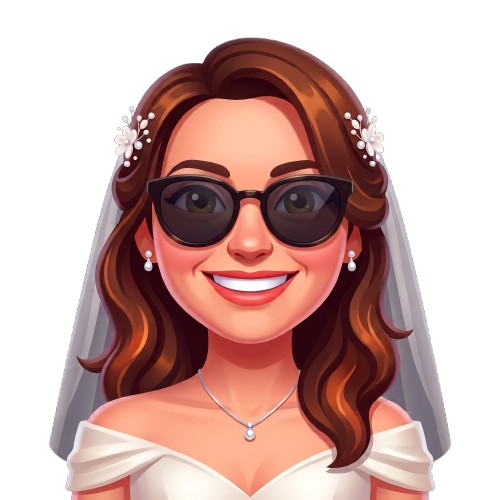
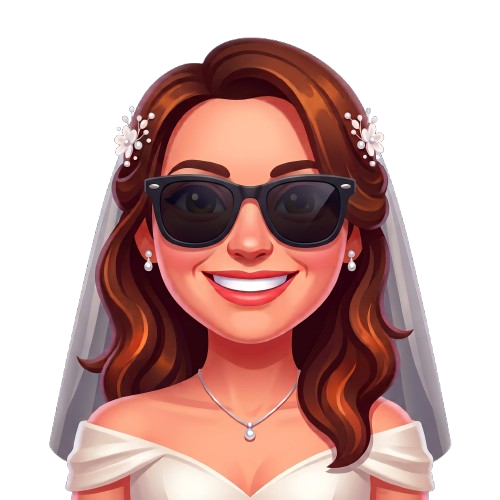
Actualizar emoji_chica_lentes e implementar Easter egg del Marciano y Líder Maddie en Dino

Changed region(s): [[0.27, 0.33, 0.72, 0.51]]

diff --git a/js/juegos.js b/js/juegos.js
@@ -123,6 +123,10 @@ document.addEventListener("DOMContentLoaded", () => {
         const imgMaddieUfo = new Image();
         imgMaddieUfo.src = assetPrefix + 'ImagenesWeb/maddie_nave_espacial.png';
 
+        // SPRITE EASTER EGG: MARCIANO INVASOR
+        const imgMarciano = new Image();
+        imgMarciano.src = assetPrefix + 'ImagenesWeb/marciano.png';
+
         // SPRITE DE MADDIE EN SU JUEGO (WHACK-A-MADDIE)
         const imgMaddieGame = new Image();
         imgMaddieGame.src = assetPrefix + 'ImagenesWeb/maddie_juego.png';
@@ -1606,6 +1610,10 @@ document.addEventListener("DOMContentLoaded", () => {
         }
 
         let maddieUfo = null;
+        let marcianoObj = null;
+        let leaderWarningTimer = 0;
+        let marcianoSpawnedThisRun = false;
+        let maddieTouchedThisRun = false;
 
         function initChicoGame() {
             memo = {
@@ -1622,6 +1630,10 @@ document.addEventListener("DOMContentLoaded", () => {
             items = [];
             bgCacti = [];
             maddieUfo = null;
+            marcianoObj = null;
+            leaderWarningTimer = 0;
+            marcianoSpawnedThisRun = false;
+            maddieTouchedThisRun = false;
             clouds = [
                 {x: 120, y: 60, speed: 0.6},
                 {x: 320, y: 90, speed: 0.4}
@@ -1647,7 +1659,89 @@ document.addEventListener("DOMContentLoaded", () => {
                 }
             };
 
+            const checkSkyEasterEggTap = (clientX, clientY) => {
+                const rect = canvas.getBoundingClientRect();
+                const clickX = (clientX - rect.left) * (canvas.width / rect.width);
+                const clickY = (clientY - rect.top) * (canvas.height / rect.height);
+
+                // 1. Tocar al Marciano
+                if (marcianoObj && marcianoObj.active && !marcianoObj.intercepted) {
+                    const mw = marcianoObj.w || 64;
+                    const mh = marcianoObj.h || 38;
+                    const mx = marcianoObj.x;
+                    const my = marcianoObj.y;
+                    if (clickX >= mx - mw / 2 - 15 && clickX <= mx + mw / 2 + 15 &&
+                        clickY >= my - mh / 2 - 15 && clickY <= my + mh / 2 + 15) {
+                        marcianoObj.intercepted = true;
+                        playSound('coin');
+                        triggerHaptic([40, 30, 80]);
+                        scorePopups.push({
+                            x: mx,
+                            y: my - 10,
+                            text: isEnLang ? "MARTIAN INTERCEPTED!" : "¡MARCIANO INTERCEPTADO!",
+                            color: "#facc15",
+                            life: 45
+                        });
+
+                        // Mensaje central: "¡SU LÍDER VIENE POR TI!"
+                        leaderWarningTimer = 90; // ~3 segundos a 30 fps
+
+                        // 3 segundos después aparece Maddie en su platillo volador
+                        setTimeout(() => {
+                            if (gameRunning && activeGame === 'chico') {
+                                maddieUfo = {
+                                    startTime: Date.now(),
+                                    duration: 5000, // 5.0 segundos exactos (duración de spaceEngine_003)
+                                    startX: canvas.width + 50,
+                                    endX: -70,
+                                    y: 44,
+                                    w: 58,
+                                    h: 48,
+                                    active: true
+                                };
+                                try {
+                                    sfxSpaceEngine.currentTime = 0;
+                                    sfxSpaceEngine.play().catch(e => console.log('Space engine audio err:', e));
+                                } catch (e) {}
+                                playSound('bark');
+                            }
+                        }, 3000);
+
+                        return true;
+                    }
+                }
+
+                // 2. Tocar a Maddie en su platillo volador
+                if (maddieUfo && maddieUfo.active && !maddieTouchedThisRun) {
+                    const uw = maddieUfo.w || 58;
+                    const uh = maddieUfo.h || 48;
+                    const ux = maddieUfo.x || 0;
+                    const uy = maddieUfo.y || 44;
+                    if (clickX >= ux - uw / 2 - 15 && clickX <= ux + uw / 2 + 15 &&
+                        clickY >= uy - uh / 2 - 15 && clickY <= uy + uh / 2 + 15) {
+                        maddieTouchedThisRun = true;
+                        score += 20;
+                        playSound('score');
+                        playSound('bark');
+                        triggerHaptic([50, 40, 50, 40, 100]);
+                        scorePopups.push({
+                            x: ux,
+                            y: uy + 12,
+                            text: isEnLang ? "ALIEN CONTACT! +20" : "¡CONTACTO ALIENÍGENA! +20",
+                            color: "#38bdf8",
+                            life: 55
+                        });
+                        return true;
+                    }
+                }
+
+                return false;
+            };
+
             canvas.onmousedown = (e) => {
+                if (checkSkyEasterEggTap(e.clientX, e.clientY)) {
+                    return; // Si interactuó con el cielo espacial, no salta
+                }
                 triggerJump();
             };
             canvas.onmouseup = () => {
@@ -1656,6 +1750,11 @@ document.addEventListener("DOMContentLoaded", () => {
 
             canvas.ontouchstart = (e) => {
                 e.preventDefault();
+                if (e.touches && e.touches.length > 0) {
+                    if (checkSkyEasterEggTap(e.touches[0].clientX, e.touches[0].clientY)) {
+                        return;
+                    }
+                }
                 triggerJump();
             };
             canvas.ontouchend = (e) => {
@@ -1723,25 +1822,81 @@ document.addEventListener("DOMContentLoaded", () => {
                     ctx.fillText("✨", 320, 35);
                 }
 
+                // SPAWN DEL MARCIANO A LOS 450 PUNTOS
+                if (score >= 450 && !marcianoSpawnedThisRun && !marcianoObj) {
+                    marcianoSpawnedThisRun = true;
+                    marcianoObj = {
+                        startTime: Date.now(),
+                        duration: 7000, // 7 segundos para cruzar tranquilamente el cielo
+                        startX: canvas.width + 40,
+                        endX: -60,
+                        y: 48,
+                        w: 64,
+                        h: 38,
+                        active: true,
+                        intercepted: false
+                    };
+                }
+
+                // DIBUJAR AL MARCIANO VOLANDO POR EL CIELO
+                if (marcianoObj && marcianoObj.active && !marcianoObj.intercepted) {
+                    const elapsed = Date.now() - marcianoObj.startTime;
+                    const progress = Math.min(1, elapsed / marcianoObj.duration);
+                    marcianoObj.x = marcianoObj.startX + (marcianoObj.endX - marcianoObj.startX) * progress;
+                    marcianoObj.currentY = marcianoObj.y + Math.sin(progress * Math.PI * 6) * 4;
+
+                    ctx.save();
+                    ctx.imageSmoothingEnabled = true;
+                    if (imgMarciano && imgMarciano.complete && imgMarciano.naturalWidth !== 0) {
+                        ctx.shadowColor = "rgba(74, 222, 128, 0.75)";
+                        ctx.shadowBlur = 8;
+                        ctx.drawImage(imgMarciano, Math.round(marcianoObj.x - marcianoObj.w / 2), Math.round(marcianoObj.currentY - marcianoObj.h / 2), marcianoObj.w, marcianoObj.h);
+                    } else {
+                        ctx.font = "26px sans-serif";
+                        ctx.textAlign = "center";
+                        ctx.fillText("👽🛸", Math.round(marcianoObj.x), Math.round(marcianoObj.currentY));
+                    }
+                    ctx.restore();
+
+                    if (progress >= 1) {
+                        marcianoObj.active = false;
+                    }
+                }
+
+                // AVISO EN EL CENTRO DEL CIELO: "SU LÍDER VIENE POR TI"
+                if (leaderWarningTimer > 0) {
+                    leaderWarningTimer--;
+                    const pulse = Math.abs(Math.sin((90 - leaderWarningTimer) * 0.15));
+                    ctx.save();
+                    ctx.font = "bold 20px 'Monogram'";
+                    ctx.fillStyle = `rgba(239, 68, 68, ${0.75 + pulse * 0.25})`;
+                    ctx.shadowColor = "rgba(0, 0, 0, 0.9)";
+                    ctx.shadowBlur = 6;
+                    ctx.textAlign = "center";
+                    ctx.fillText(isEnLang ? "THEIR LEADER IS COMING FOR YOU!" : "¡SU LÍDER VIENE POR TI!", canvas.width / 2, 75);
+                    ctx.restore();
+                }
+
                 // EASTER EGG: MADDIE NAVE ESPACIAL VOLANDO EN LA NOCHE (Sincronizada con spaceEngine_003)
                 if (maddieUfo && maddieUfo.active) {
                     const elapsed = Date.now() - maddieUfo.startTime;
                     const progress = Math.min(1, elapsed / maddieUfo.duration);
                     maddieUfo.x = maddieUfo.startX + (maddieUfo.endX - maddieUfo.startX) * progress;
-                    const hoverY = maddieUfo.y + Math.sin(progress * Math.PI * 8) * 3.5;
+                    maddieUfo.currentY = maddieUfo.y + Math.sin(progress * Math.PI * 8) * 3.5;
 
                     ctx.save();
                     ctx.imageSmoothingEnabled = true;
                     if (imgMaddieUfo && imgMaddieUfo.complete && imgMaddieUfo.naturalWidth !== 0) {
-                        const ufoW = 54;
+                        const ufoW = maddieUfo.w || 58;
                         const ufoH = Math.round(ufoW * (imgMaddieUfo.height / imgMaddieUfo.width));
-                        ctx.shadowColor = "rgba(147, 197, 253, 0.6)";
-                        ctx.shadowBlur = 8;
-                        ctx.drawImage(imgMaddieUfo, Math.round(maddieUfo.x - ufoW / 2), Math.round(hoverY - ufoH / 2), ufoW, ufoH);
+                        maddieUfo.h = ufoH;
+                        ctx.shadowColor = "rgba(147, 197, 253, 0.75)";
+                        ctx.shadowBlur = 10;
+                        ctx.drawImage(imgMaddieUfo, Math.round(maddieUfo.x - ufoW / 2), Math.round(maddieUfo.currentY - ufoH / 2), ufoW, ufoH);
                     } else {
                         ctx.font = "28px sans-serif";
                         ctx.textAlign = "center";
-                        ctx.fillText("🛸🐶", Math.round(maddieUfo.x), Math.round(hoverY));
+                        ctx.fillText("🛸🐶", Math.round(maddieUfo.x), Math.round(maddieUfo.currentY));
                     }
                     ctx.restore();
 
@@ -1930,27 +2085,10 @@ document.addEventListener("DOMContentLoaded", () => {
                     playSound('coin');
                     triggerHaptic(30);
 
-                    // EASTER EGG: MADDIE NAVE ESPACIAL SI ESTÁS EN EL AIRE Y ES MODO NOCHE (>350 pts)
-                    if (!memo.isGrounded && isNightMode && !maddieUfo) {
-                        maddieUfo = {
-                            startTime: Date.now(),
-                            duration: 5000, // 5.0 segundos exactos (duración del audio spaceEngine_003)
-                            startX: canvas.width + 45,
-                            endX: -65,
-                            y: 44,
-                            active: true
-                        };
-                        try {
-                            sfxSpaceEngine.currentTime = 0;
-                            sfxSpaceEngine.play().catch(e => console.log('Space engine audio err:', e));
-                        } catch (e) {}
-                        playSound('bark');
-                    }
-                    
                     scorePopups.push({
                         x: it.x + it.width / 2,
                         y: it.y,
-                        text: (!memo.isGrounded && isNightMode) ? "+15 🛸" : "+15",
+                        text: "+15",
                         life: 25 
                     });
 
@@ -1962,12 +2100,20 @@ document.addEventListener("DOMContentLoaded", () => {
 
             for (let i = scorePopups.length - 1; i >= 0; i--) {
                 let p = scorePopups[i];
-                p.y -= 1.5; 
+                p.y -= 1.2; 
                 p.life--;
 
+                const alpha = Math.max(0, Math.min(1, p.life / 25));
                 ctx.save();
                 ctx.font = "20px 'Monogram'";
-                ctx.fillStyle = `rgba(83, 83, 83, ${p.life / 25})`; 
+                if (p.color) {
+                    ctx.fillStyle = p.color;
+                    ctx.globalAlpha = alpha;
+                    ctx.shadowColor = "rgba(0, 0, 0, 0.8)";
+                    ctx.shadowBlur = 4;
+                } else {
+                    ctx.fillStyle = isNightMode ? `rgba(240, 240, 240, ${alpha})` : `rgba(83, 83, 83, ${alpha})`;
+                }
                 ctx.textAlign = "center";
                 ctx.fillText(p.text, Math.round(p.x), Math.round(p.y));
                 ctx.restore();

diff --git a/en/juegos.html b/en/juegos.html
@@ -504,6 +504,6 @@
     </div>
 
     <!-- JAVASCRIPT GLOBAL Y LÓGICA DE JUEGOS -->
-    <script src="../js/juegos.js?v=30.0" defer></script>
+    <script src="../js/juegos.js?v=31.0" defer></script>
 </body>
 </html>

diff --git a/juegos.html b/juegos.html
@@ -506,6 +506,6 @@
     </div>
 
     <!-- JAVASCRIPT GLOBAL Y LÓGICA DE JUEGOS -->
-<script src="js/juegos.js?v=30.0" defer></script>
+<script src="js/juegos.js?v=31.0" defer></script>
 </body>
 </html>
